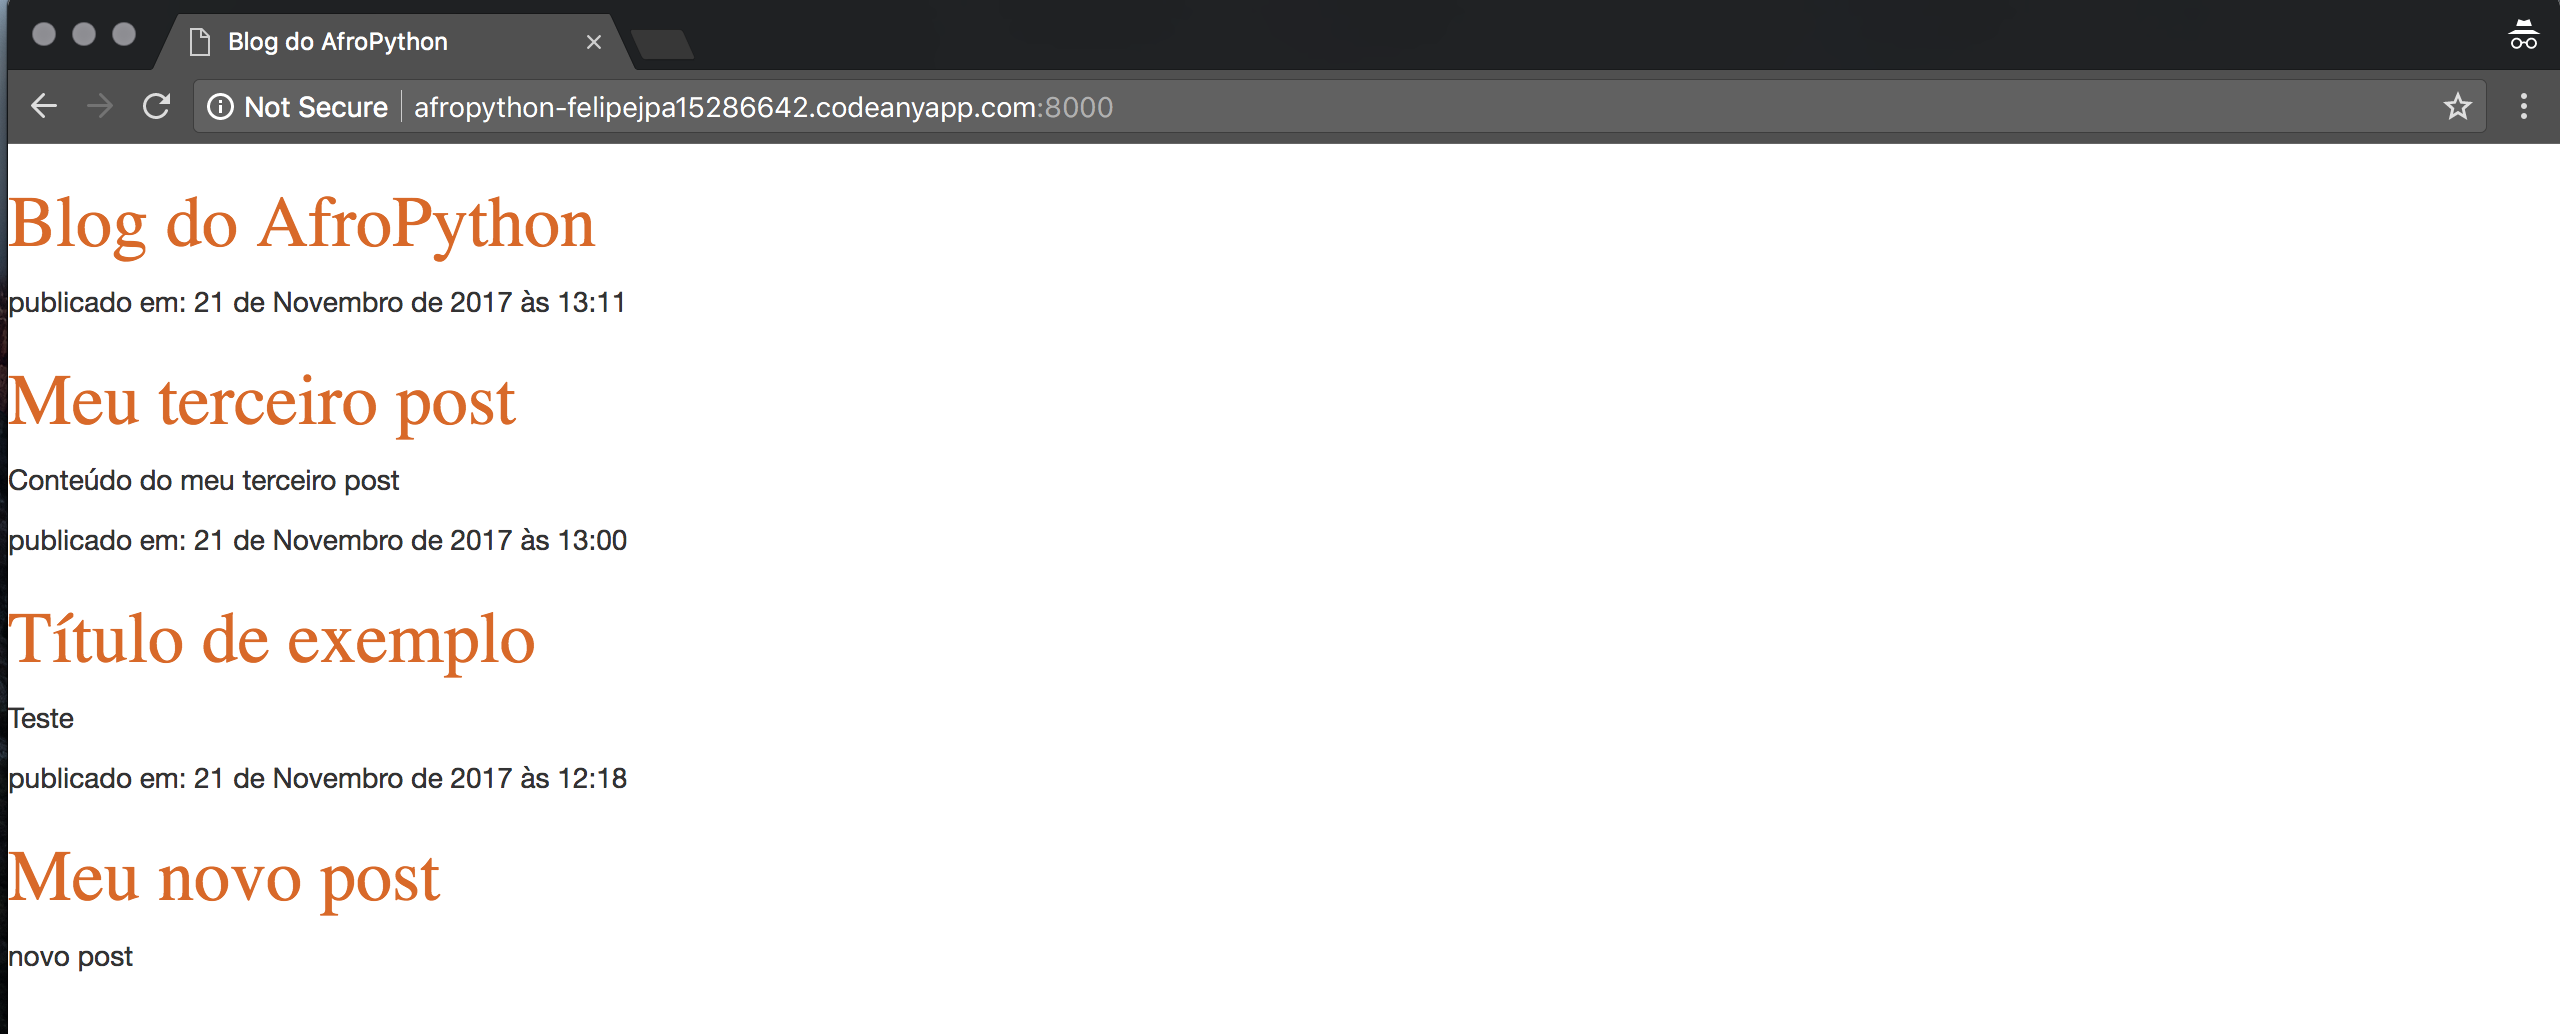
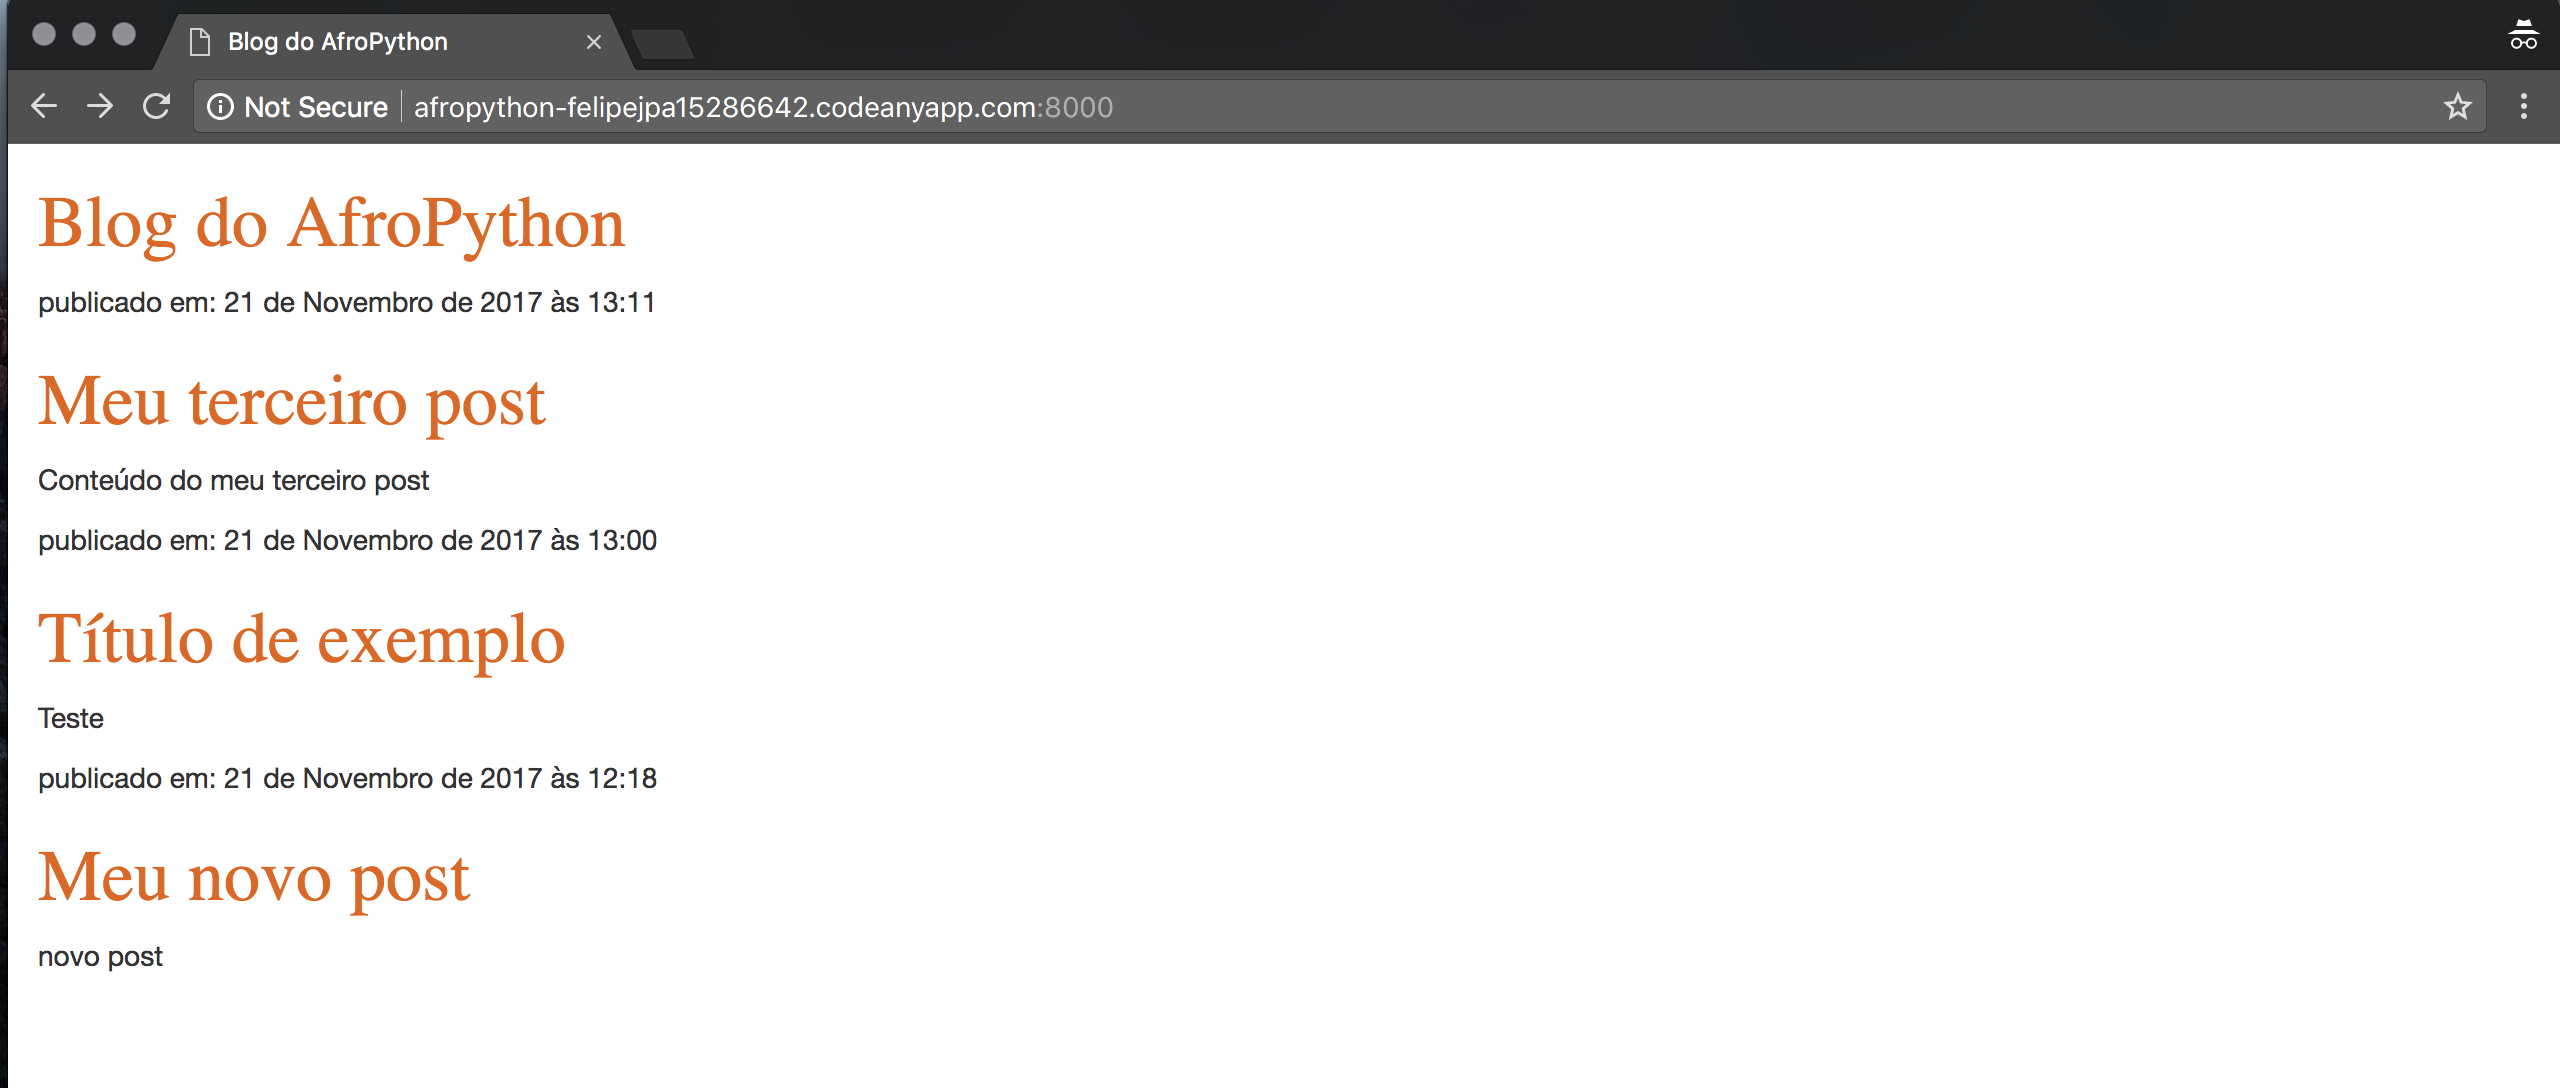
arruma as imagens do capítulo

diff --git a/css/primeiro_arquivo_css.md b/css/primeiro_arquivo_css.md
@@ -93,7 +93,7 @@ body {
 
 Adicione isto ao seu arquivo CSS, salve e veja como ele funciona!
 
-![Figure 14.3](images/margin2.png)
+![Blog com padding](images/blog-com-padding.png)
 
 Talvez a gente possa customizar a fonte no nosso cabeçalho? Cole na seção `<head>` do arquivo `blog/templates/blog/post_list.html` o seguinte:
 
@@ -232,7 +232,7 @@ blog/templates/blog/post_list.html
 
 Salve esses arquivos e atualize seu site.
 
-![Blog com padding](images/blog-com-padding.png)
+![Blog com CSS completo](images/blog-com-css-completo.png)
 
 Uhuu! Ficou incrível, né? Olhe para o código que nós acabamos de colar para encontrar os lugares aonde nós adicionamos classes no HTML e as usamos no CSS. Aonde você faria a mudança para que a data ficasse com a cor turquesa ?
 
